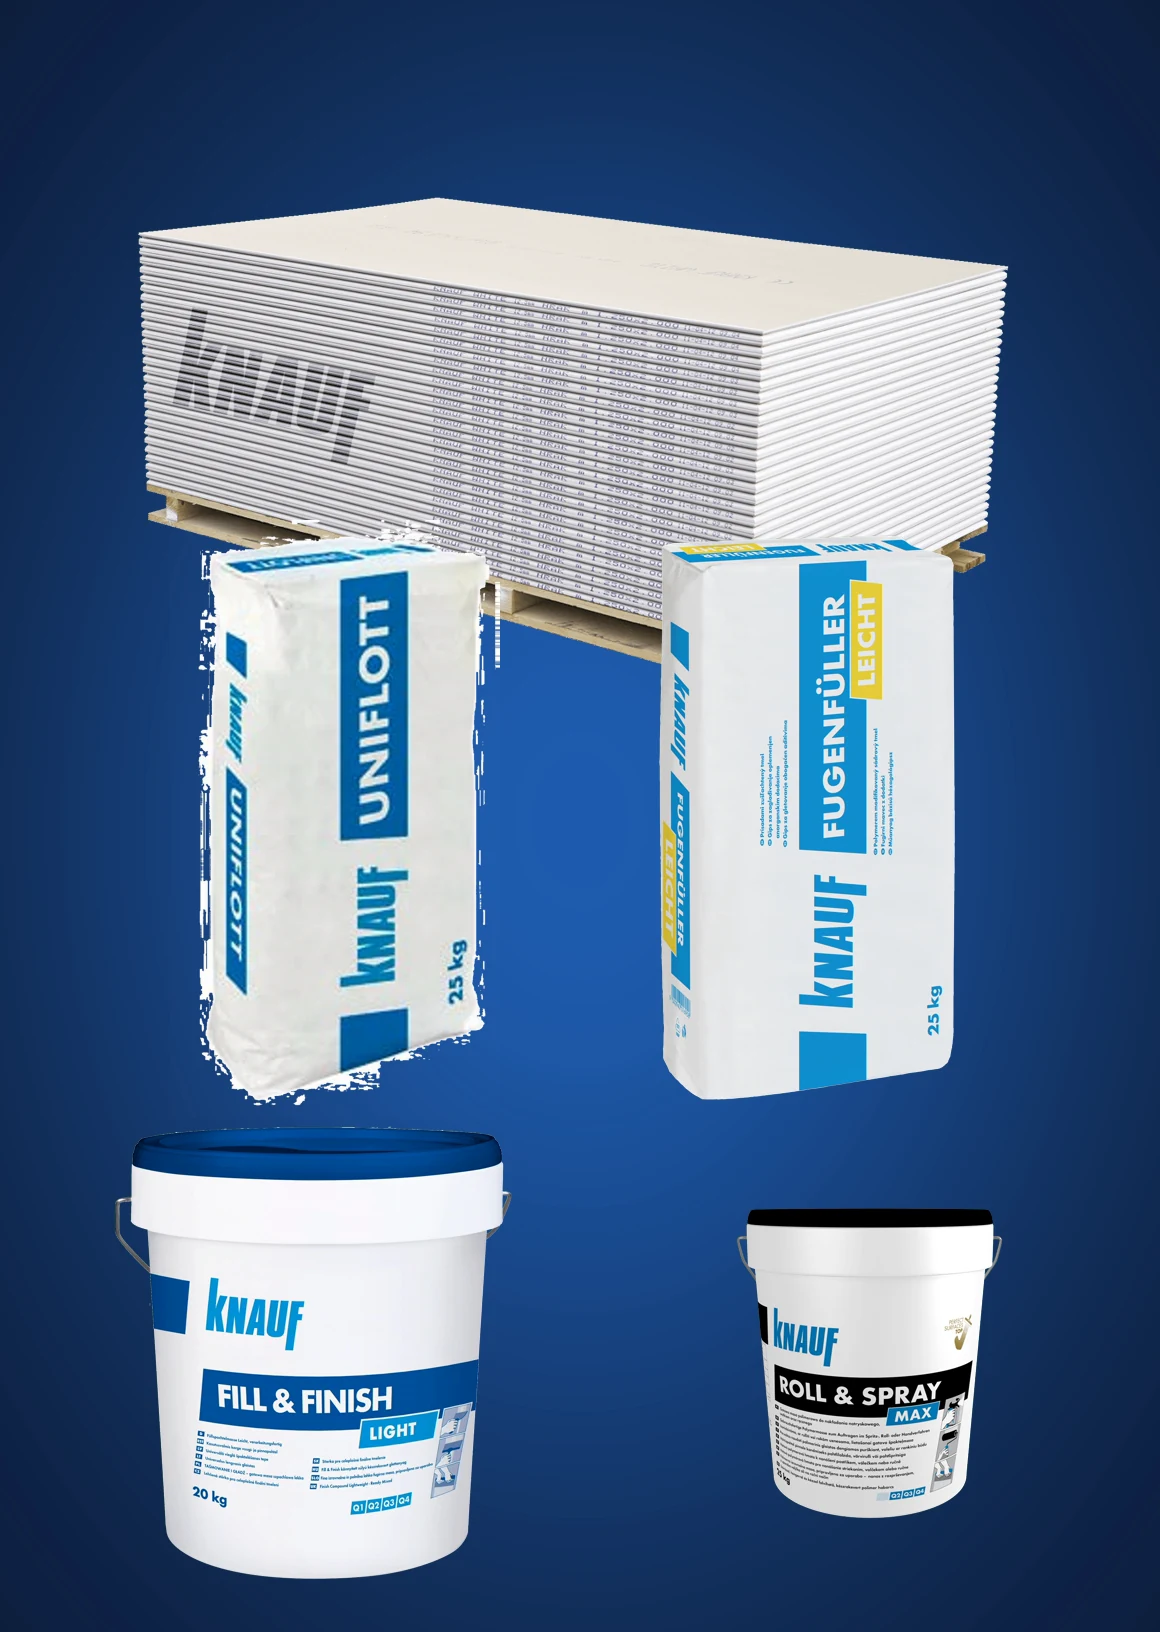
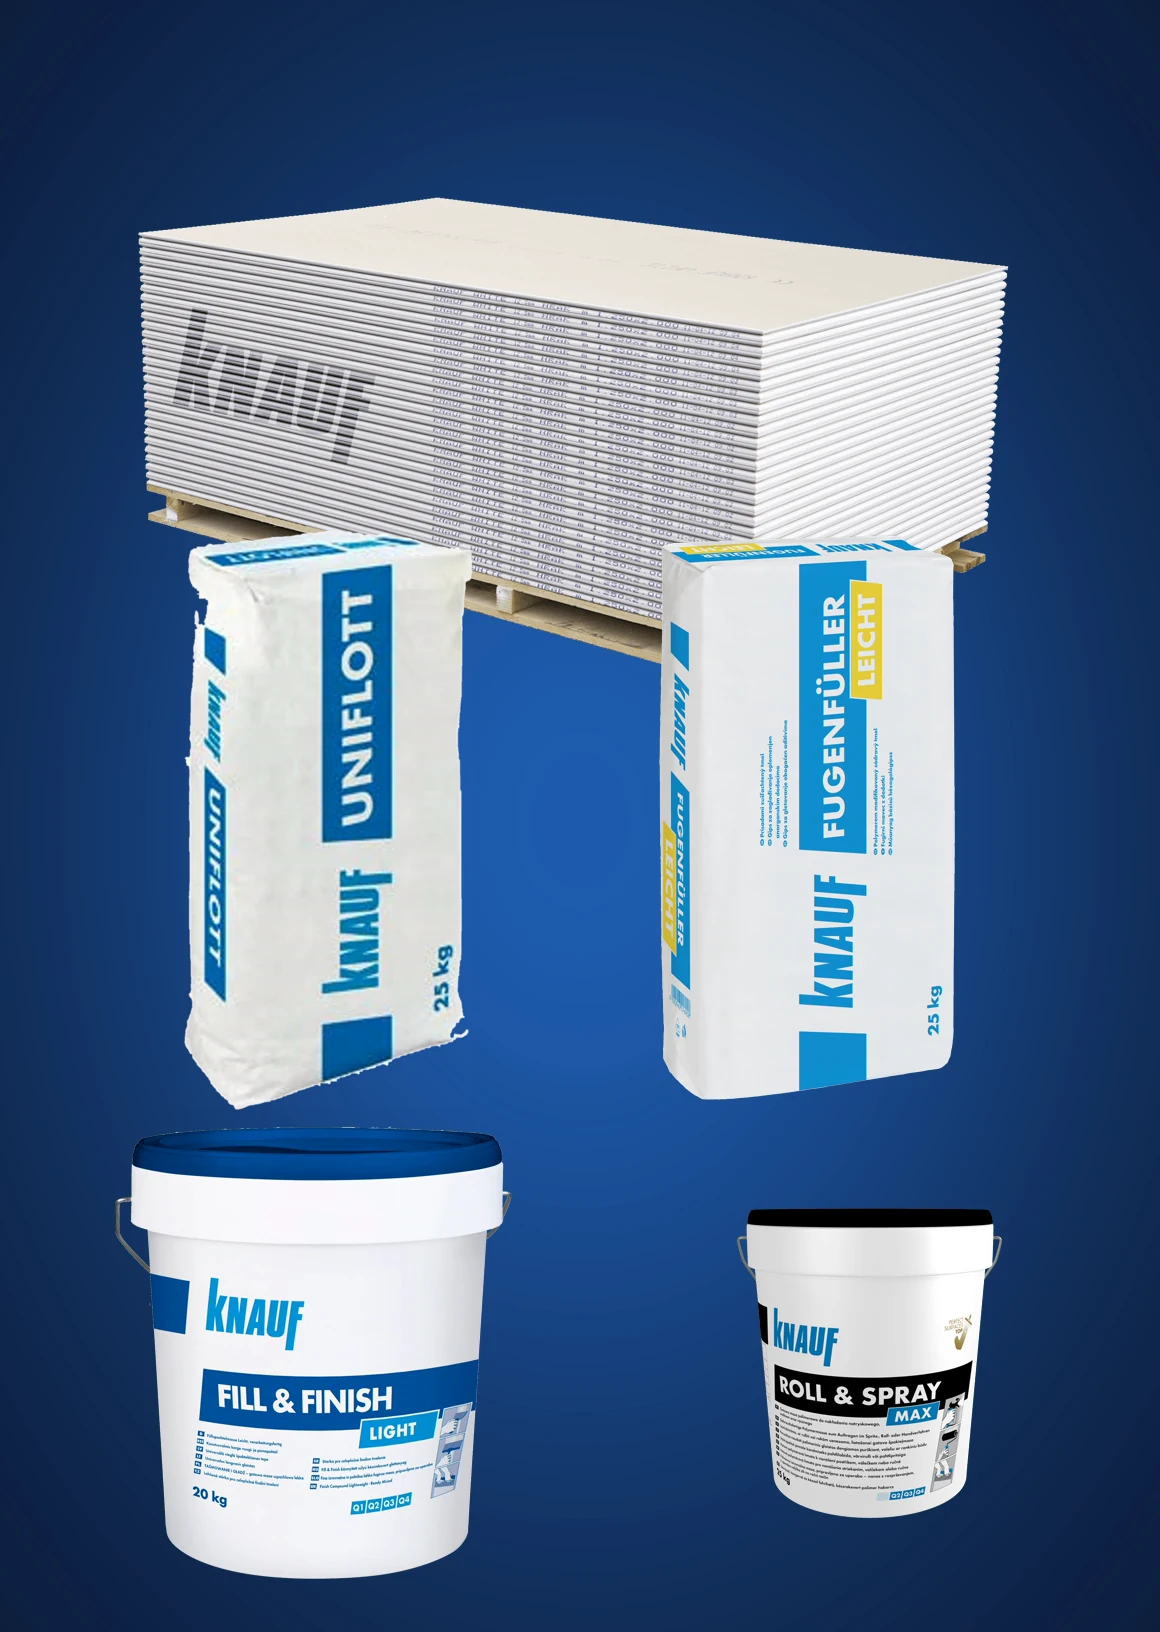
Obsah 2026-10-27.41: KNAUF Uniflott s mäkkým okrajom, nová zostava sadrokartónu a sadier

Changed region(s): [[0.1552, 0.3125, 0.4345, 0.6875]]

diff --git a/sw.js b/sw.js
@@ -7,7 +7,7 @@
      zo siete na požiadanie a nič veľké sa neukladá.
    content.json a index.html: najprv sieť, pri výpadku uložená verzia.
    Písma z Google Fonts sa uložia pri prvom online spustení. */
-const VERSION = "2026-10-27-knauf";
+const VERSION = "2026-10-27-knauf-uniflott";
 const PRECACHE = "dahax-" + VERSION;
 const RUNTIME = "dahax-runtime";
 const MEDIA_CACHE = "dahax-media";
